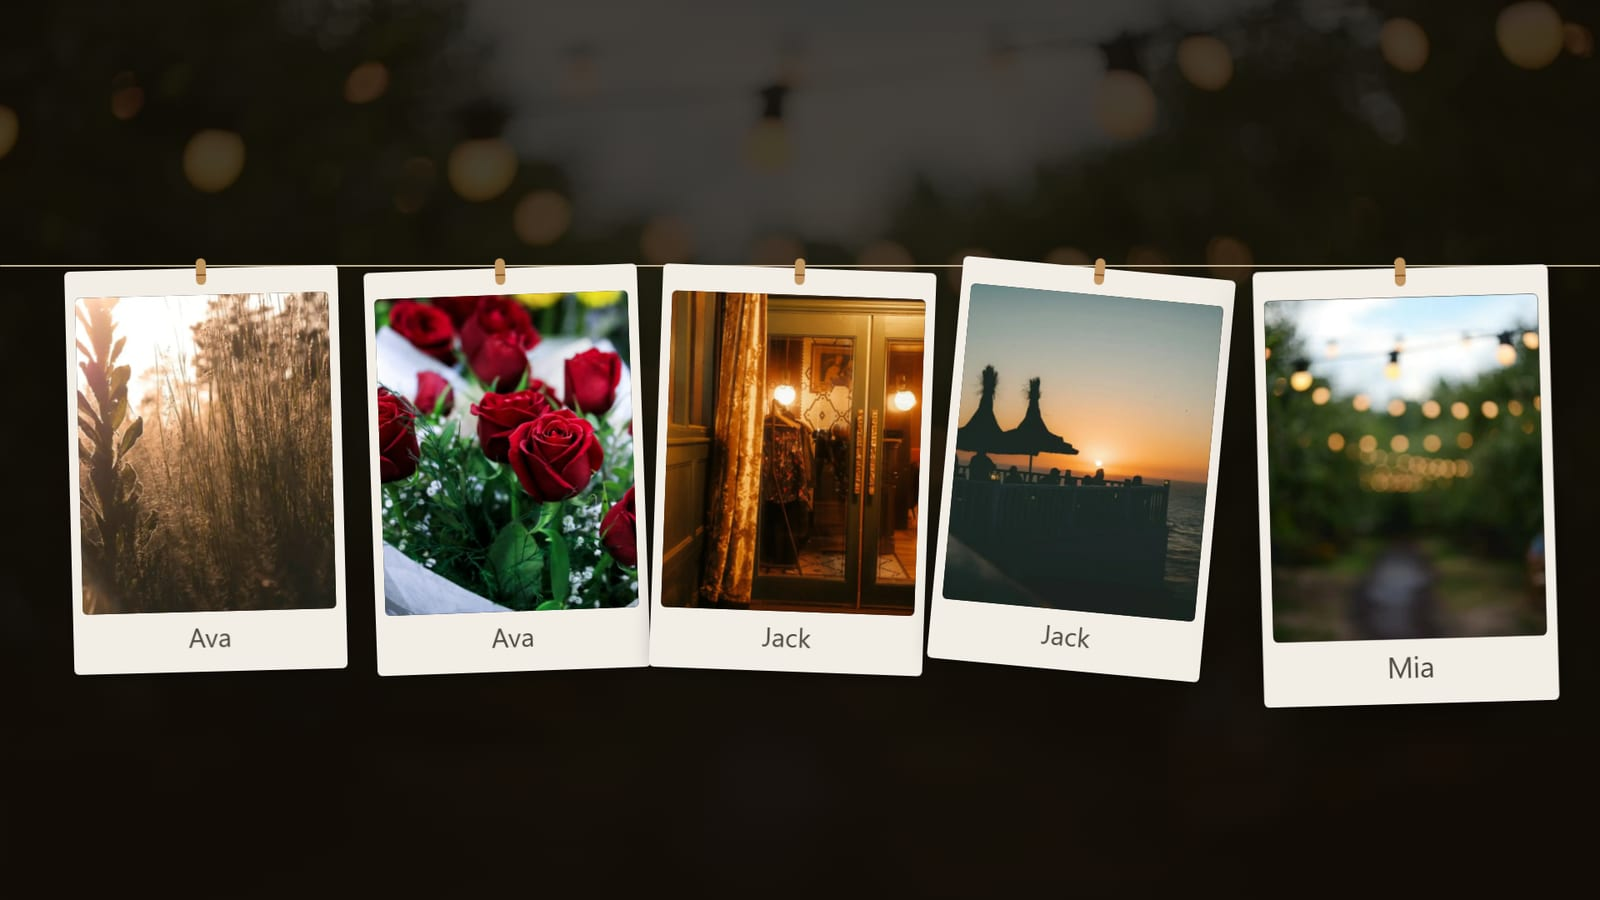
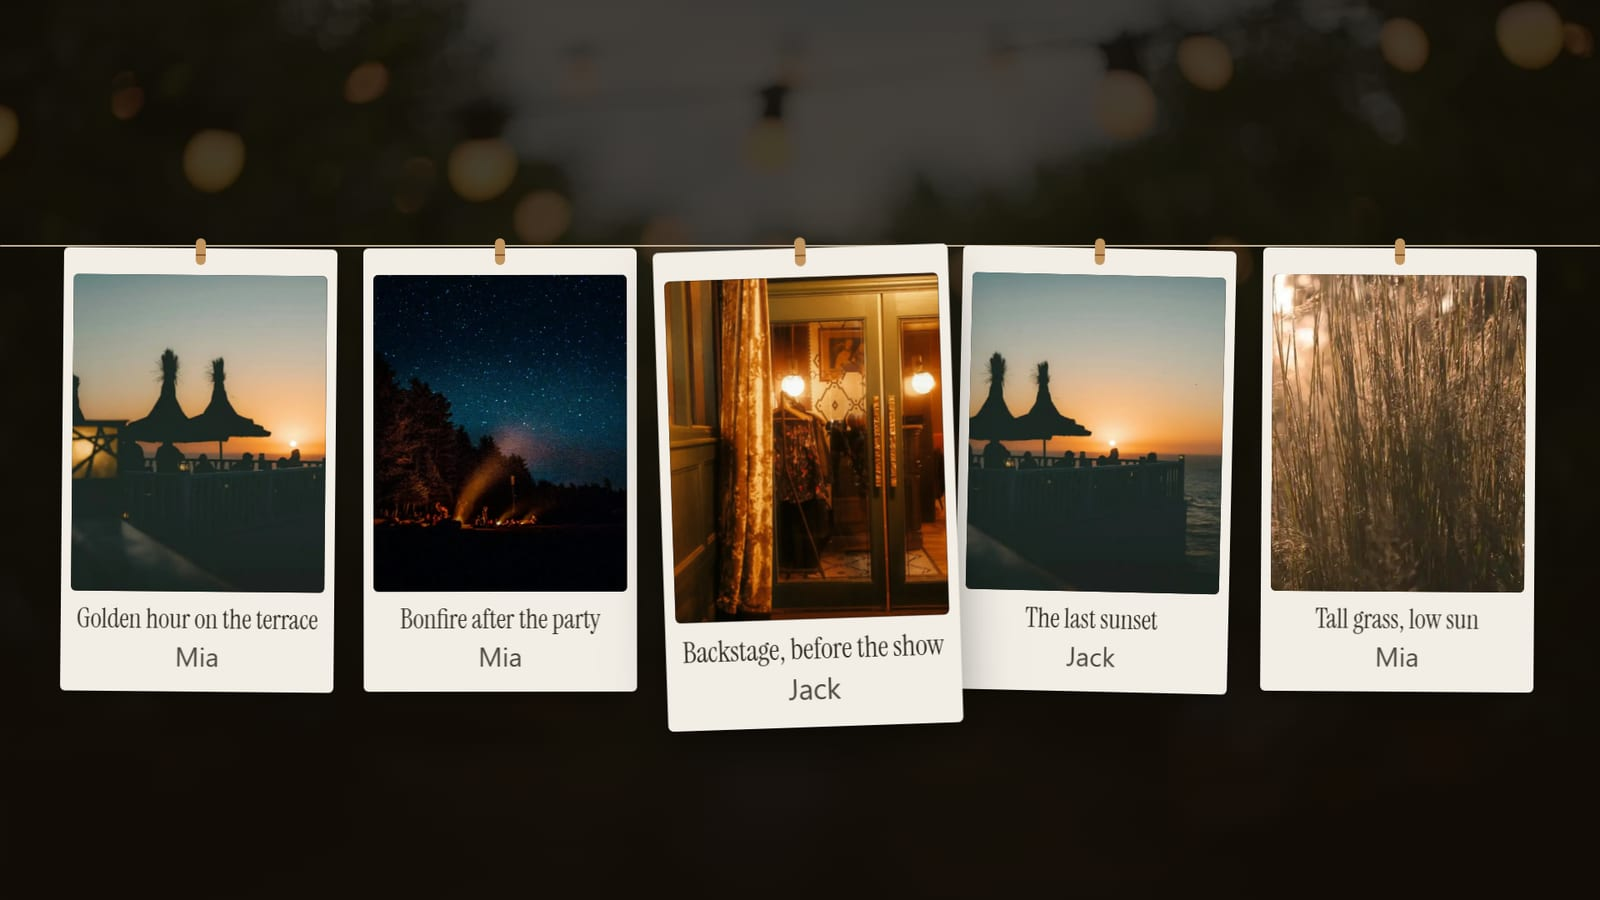
docs: polish the README screenshots
Captions on the seeded photos, five photos waiting in moderation, an
upload screen without the half-hidden list, and the ambiance image is now
the same guest screen in three ambiances side by side.

diff --git a/README.md b/README.md
@@ -12,7 +12,9 @@ within seconds.
   <img src="docs/images/guest-upload.jpg" width="19%" alt="A guest's phone: one photo ready, buttons to add a caption or a video, and a Send button">
   <img src="docs/images/guest-feed.jpg" width="19%" alt="The guests' feed, Photos from the evening: the pictures published so far, with the sender's name">
   <img src="docs/images/moderation-phone.jpg" width="19%" alt="Moderation on a phone: one photograph at a time, with Reject and Publish buttons">
-  <img src="docs/images/ambiances.jpg" width="38%" alt="The event settings: choose an ambiance, an accent colour, a typeface and a frame for the photos">
+</p>
+<p align="center">
+  <img src="docs/images/ambiances.jpg" width="70%" alt="The same guest screen in three ambiances: the violet EventSlide look, Guinguette with its string lights, and Wedding in red and white">
 </p>
 
 Self-hosted, so the photos stay on your machine. Or, if you would rather not run a server,
